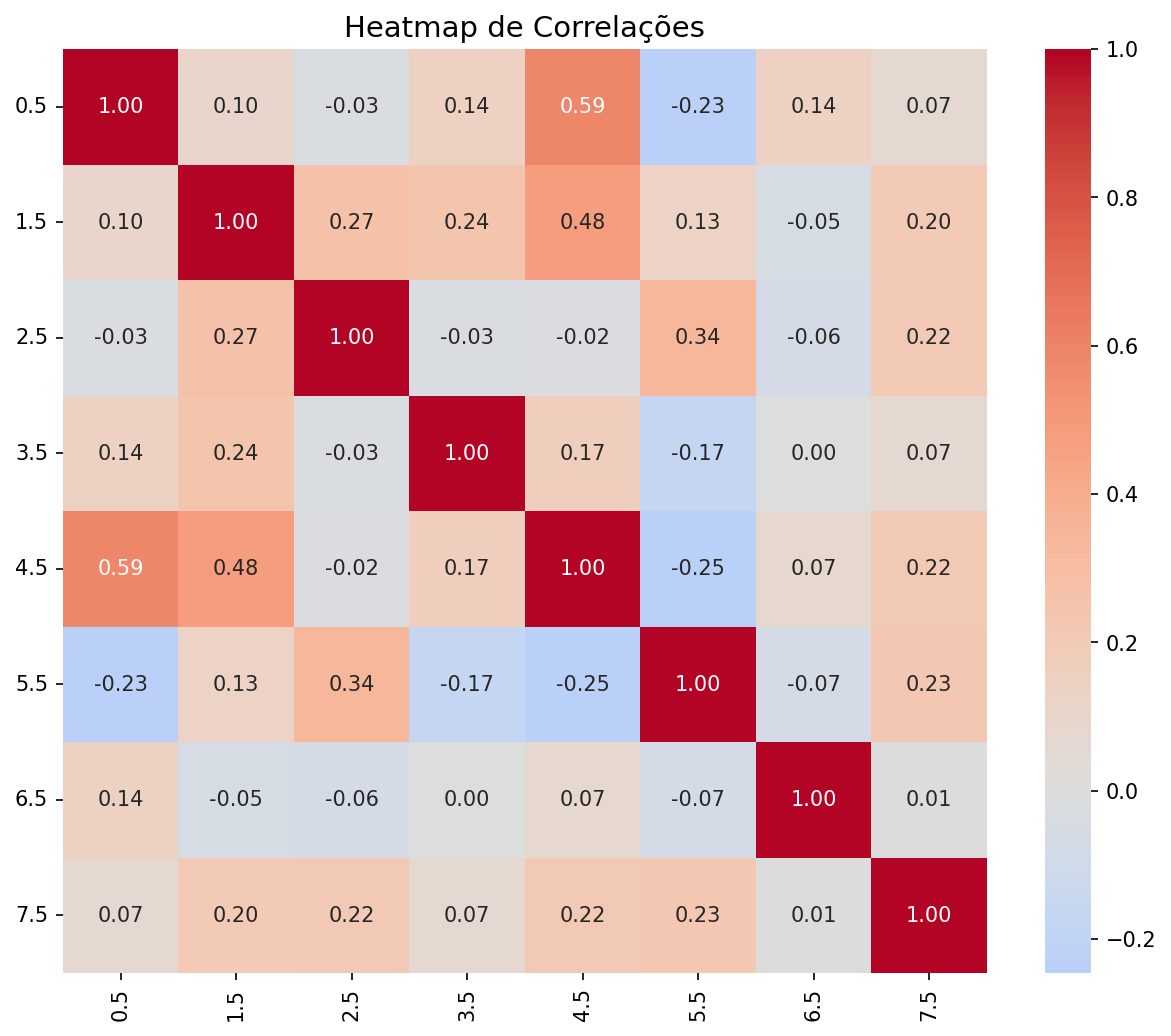
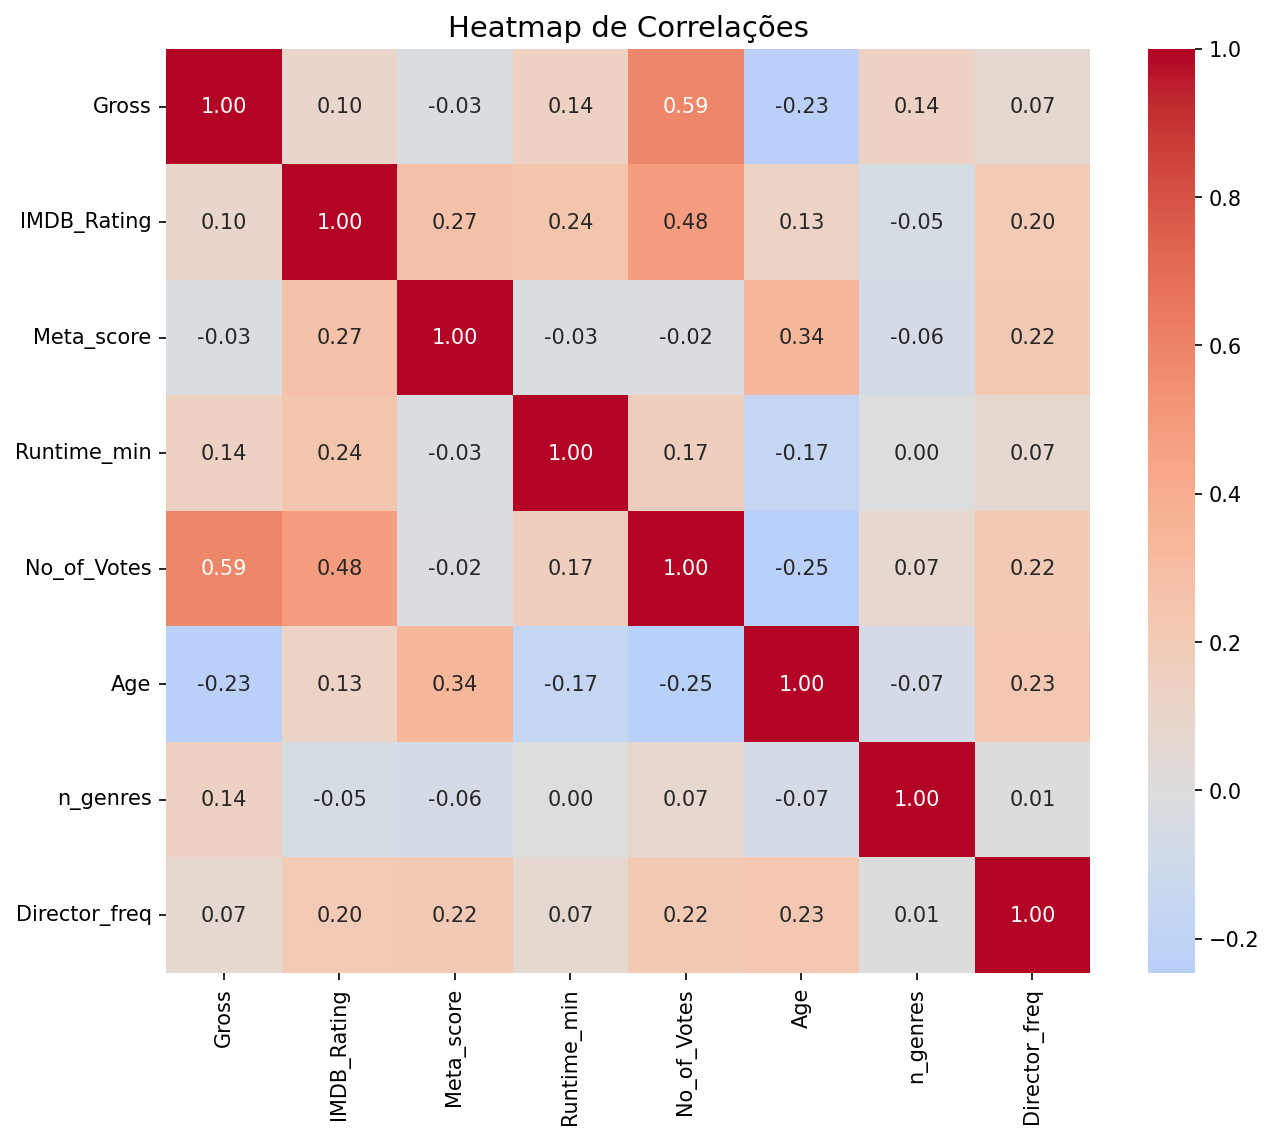
fix(backend-plot): correct column labels in saved correlation heatmap

diff --git a/frontend/index.html b/frontend/index.html
@@ -10,7 +10,7 @@
 
 <body>
     <header>
-        <h1>🎬 Análise de Filmes - IMDB</h1>
+        <h1>🎬</h1>
         <nav>
             <a href="./assets/pages/analysis.html">Análises</a>
             <a href="./assets/pages/predict.html">Previsões</a>

diff --git a/frontend/assets/pages/predict.html b/frontend/assets/pages/predict.html
@@ -10,7 +10,7 @@
 
 <body>
     <header>
-        <h1>Análise de Filmes - IMDB</h1>
+        <h1>🎬</h1>
         <nav>
             <a href="./analysis.html">Análises</a>
             <a href="./predict.html">Previsões</a>

diff --git a/frontend/assets/pages/analysis.html b/frontend/assets/pages/analysis.html
@@ -10,7 +10,7 @@
 
 <body>
   <header>
-    <h1>🎬 Análise Exploratória de Filmes - IMDB</h1>
+    <h1>🎬</h1>
     <nav>
       <a href="./analysis.html">Análises</a>
       <a href="./predict.html">Previsões</a>

diff --git a/backend/src/api/services/movies_plot_service.py b/backend/src/api/services/movies_plot_service.py
@@ -3,27 +3,41 @@ from config import plt, sns, format_ticks
 from api.repositories import df
 from api.utils import correlations
 
-# Caminho correto para salvar as imagens na pasta src/img
-BASE_DIR = Path(__file__).resolve().parent.parent  # vai até src
-IMG_DIR = BASE_DIR.parent / "img"  # sai de src e entra na pasta img
+BASE_DIR = Path(__file__).resolve().parent.parent
+IMG_DIR = BASE_DIR.parent / "img"
 IMG_DIR.mkdir(parents=True, exist_ok=True)
 
 
 def plot_corr_heatmap() -> str:
     plt.figure(figsize=(10, 8))
     corr = correlations(df)
-    ax = sns.heatmap(corr, annot=True, fmt=".2f", cmap="coolwarm", center=0, square=True)
+    sns.heatmap(
+        corr,
+        annot=True,
+        fmt=".2f",
+        cmap="coolwarm",
+        center=0,
+        square=True
+    )
     plt.title("Heatmap de Correlações", fontsize=14)
-    format_ticks(ax)
 
     file_path = IMG_DIR / "heatmap_correlations.png"
     plt.savefig(file_path, format="png", bbox_inches="tight", dpi=150)
     plt.close()
     return str(file_path)
 
+
 def plot_imbd_vs_gross() -> str:
     plt.figure(figsize=(10, 6))
-    ax = sns.scatterplot(data=df, x="IMDB_Rating", y="Gross", alpha=0.6, color="royalblue", edgecolor="white", linewidth=0.5)
+    ax = sns.scatterplot(
+        data=df,
+        x="IMDB_Rating",
+        y="Gross",
+        alpha=0.6,
+        color="royalblue",
+        edgecolor="white",
+        linewidth=0.5
+    )
     plt.yscale("log")
     plt.title("IMDB Rating vs Gross", fontsize=16, fontweight="bold")
     plt.xlabel("IMDB Rating", fontsize=12)
@@ -37,9 +51,12 @@ def plot_imbd_vs_gross() -> str:
     plt.close()
     return str(file_path)
 
+
 def plot_genres() -> str:
     plt.figure(figsize=(10, 6))
-    genre_counts = df.explode("Genre_list")["Genre_list"].value_counts().head(10)
+    genre_counts = (
+        df.explode("Genre_list")["Genre_list"].value_counts().head(10)
+    )
     ax = sns.barplot(x=genre_counts.values, y=genre_counts.index)
     for i, v in enumerate(genre_counts.values):
         ax.text(v + 5, i, str(v), color="black", va="center", fontsize=10)
@@ -47,16 +64,23 @@ def plot_genres() -> str:
     plt.title("Top 10 Gêneros Mais Frequentes", fontsize=14, weight="bold")
     plt.xlabel("Número de Filmes")
     plt.ylabel("Gênero")
-    format_ticks(ax)
 
     file_path = IMG_DIR / "top10_genres.png"
     plt.savefig(file_path, format="png", dpi=150, bbox_inches="tight")
     plt.close()
     return str(file_path)
 
+
 def plot_histogram(column: str) -> str:
     plt.figure(figsize=(8, 6))
-    ax = sns.histplot(df[column].dropna(), kde=True, bins=30, color="steelblue", edgecolor="black", alpha=0.7)
+    ax = sns.histplot(
+        df[column].dropna(),
+        kde=True,
+        bins=30,
+        color="steelblue",
+        edgecolor="black",
+        alpha=0.7
+    )
     sns.despine(top=True, right=True, left=False, bottom=False)
     plt.title(f"Distribuição de {column}", fontsize=16, fontweight="bold")
     plt.xlabel(column, fontsize=14)

diff --git a/backend/src/api/routes/movies_plot_router.py b/backend/src/api/routes/movies_plot_router.py
@@ -3,20 +3,24 @@ from api.services import movies_plot_service
 
 router = APIRouter()
 
+
 @router.get("/correlations/save")
 def save_heatmap():
     filepath = movies_plot_service.plot_corr_heatmap()
     return {"message": "Imagem salva com sucesso!", "path": filepath}
+
 
 @router.get("/imbd_vs_gross/save")
 def save_imbd_vs_gross():
     filepath = movies_plot_service.plot_imbd_vs_gross()
     return {"message": "Imagem salva com sucesso!", "path": filepath}
 
+
 @router.get("/genres/save")
 def save_genres():
     filepath = movies_plot_service.plot_genres()
     return {"message": "Imagem salva com sucesso!", "path": filepath}
+
 
 @router.get("/histogram/{column}/save")
 def save_histogram(column: str):
